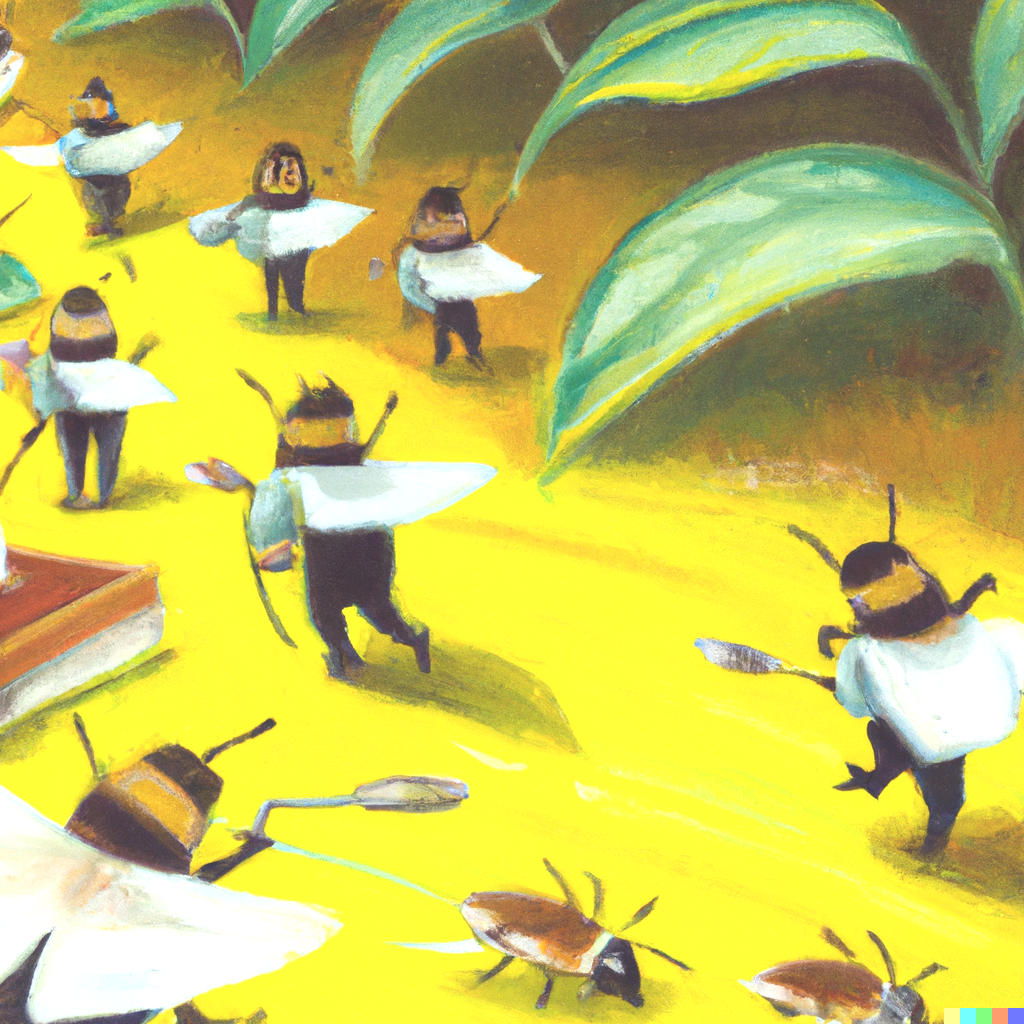
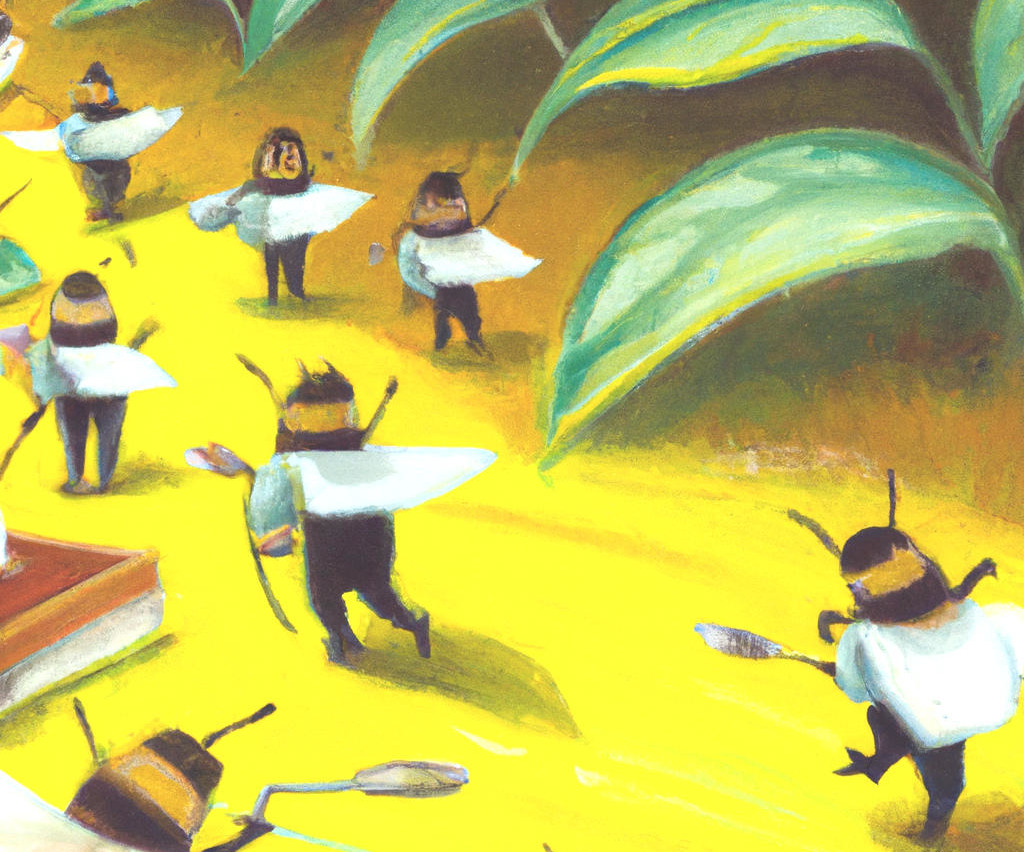
added new image for project activities.

diff --git a/network-activities.md b/network-activities.md
@@ -2,7 +2,7 @@
 layout: post
 title: SEEKCommons Calendar
 description: Calendar of network activities
-image: assets/images/network-activities.png
+image: assets/images/network-calendar.jpg
 nav-menu: true
 ---
 

diff --git a/project-activities.md b/project-activities.md
@@ -2,7 +2,7 @@
 title: Project Activities
 layout: landing 
 description: 'List of project activities'
-image: assets/images/future-drawing.jpg
+image: assets/images/bees-dancing.jpg
 nav-menu: true
 ---
 
